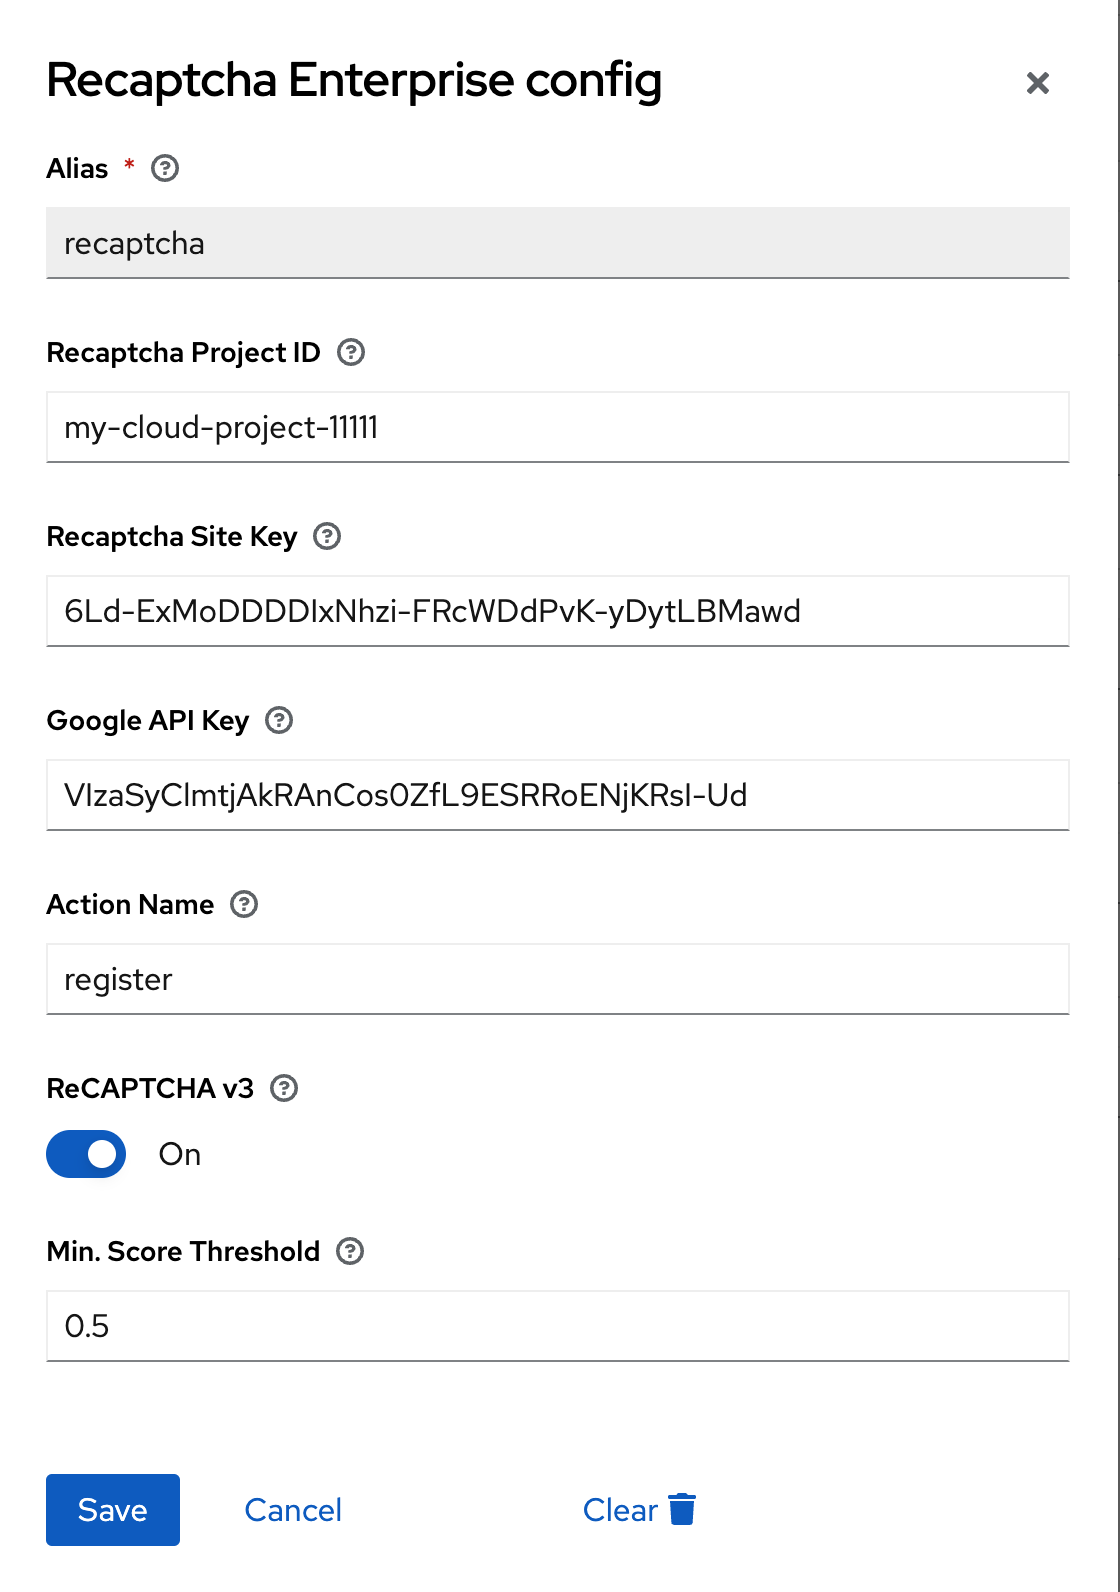
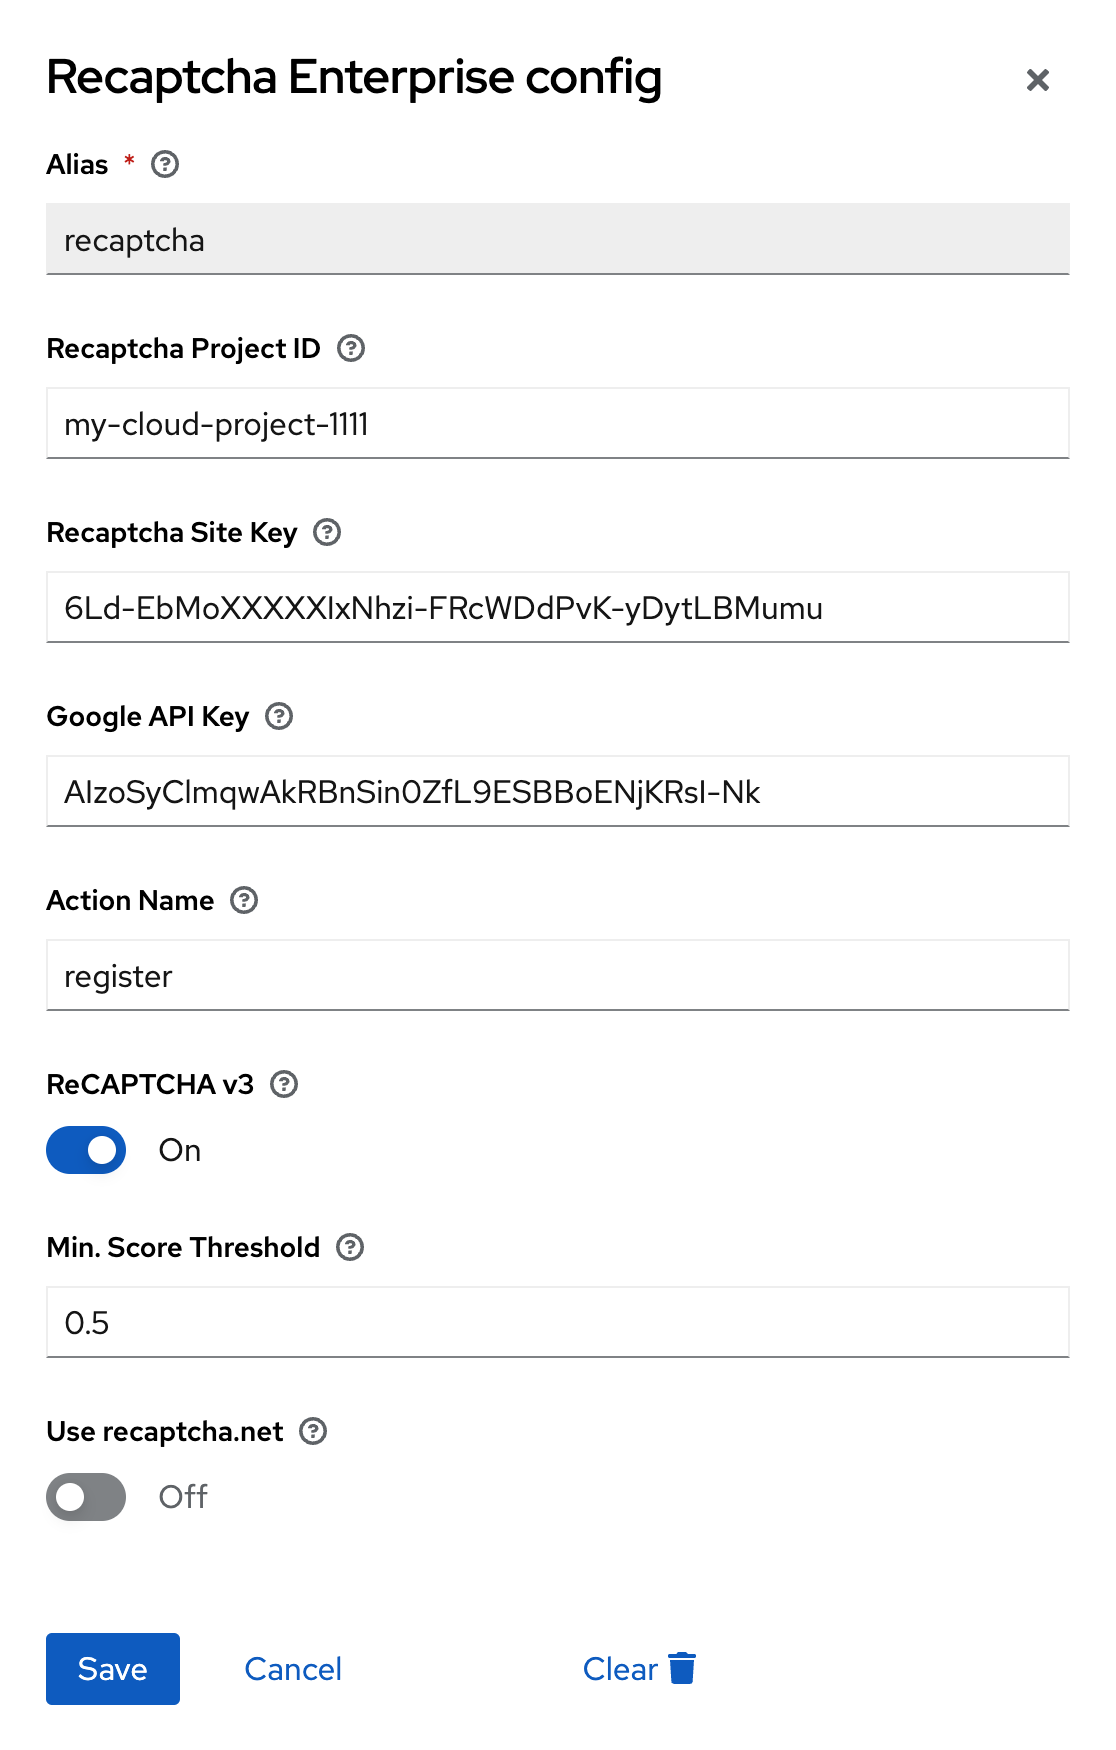
Re-enable use recaptcha.net

diff --git a/services/src/main/java/org/keycloak/authentication/forms/RegistrationRecaptcha.java b/services/src/main/java/org/keycloak/authentication/forms/RegistrationRecaptcha.java
@@ -69,6 +69,7 @@ public class RegistrationRecaptcha implements FormAction, FormActionFactory {
     public static final String ACTION = "action";
     public static final String INVISIBLE = "recaptcha.v3";
     public static final String SCORE_THRESHOLD = "score.threshold";
+    public static final String USE_RECAPTCHA_NET = "useRecaptchaNet";
 
     private static final Logger LOGGER = Logger.getLogger(RegistrationRecaptcha.class);
 
@@ -117,6 +118,14 @@ public class RegistrationRecaptcha implements FormAction, FormActionFactory {
             .type(ProviderConfigProperty.STRING_TYPE)
             .defaultValue("0.7")
             .add()
+            .property()
+            .name(USE_RECAPTCHA_NET)
+            .label("Use recaptcha.net")
+            .helpText("Whether to use recaptcha.net instead of google.com, "
+                    + "which may have other cookies set.")
+            .type(ProviderConfigProperty.BOOLEAN_TYPE)
+            .defaultValue(false)
+            .add()
             .build();
 
     @Override
@@ -127,7 +136,7 @@ public class RegistrationRecaptcha implements FormAction, FormActionFactory {
     @Override
     public String getHelpText() {
         return "Adds Google ReCAPTCHA Enterprise to the form. "
-                + "Requires a Google API key and a reCAPTCHA Enterprise Key (invisible, score-base or checkbox-based).";
+                + "Requires a Google API key and a reCAPTCHA Enterprise Key (invisible, score-based or visible, checkbox-based).";
     }
 
     @Override
@@ -163,13 +172,14 @@ public class RegistrationRecaptcha implements FormAction, FormActionFactory {
 
         String userLanguageTag = context.getSession().getContext().resolveLocale(context.getUser())
                 .toLanguageTag();
-        boolean invisible = Boolean.parseBoolean(config.getOrDefault(INVISIBLE, "true"));
+        boolean invisible = Boolean.parseBoolean(config.get(INVISIBLE));
+        String recaptchatDomain = Boolean.parseBoolean(config.get(USE_RECAPTCHA_NET)) ? "recaptcha.net" : "google.com";
 
         form.setAttribute("recaptchaRequired", true);
         form.setAttribute("recaptchaSiteKey", config.get(SITE_KEY));
         form.setAttribute("recaptchaAction", config.get(ACTION));
         form.setAttribute("recaptchaVisible", !invisible);
-        form.addScript("https://www.google.com/recaptcha/enterprise.js?hl=" + userLanguageTag);
+        form.addScript("https://www." + recaptchatDomain + "/recaptcha/enterprise.js?hl=" + userLanguageTag);
     }
 
     @Override
